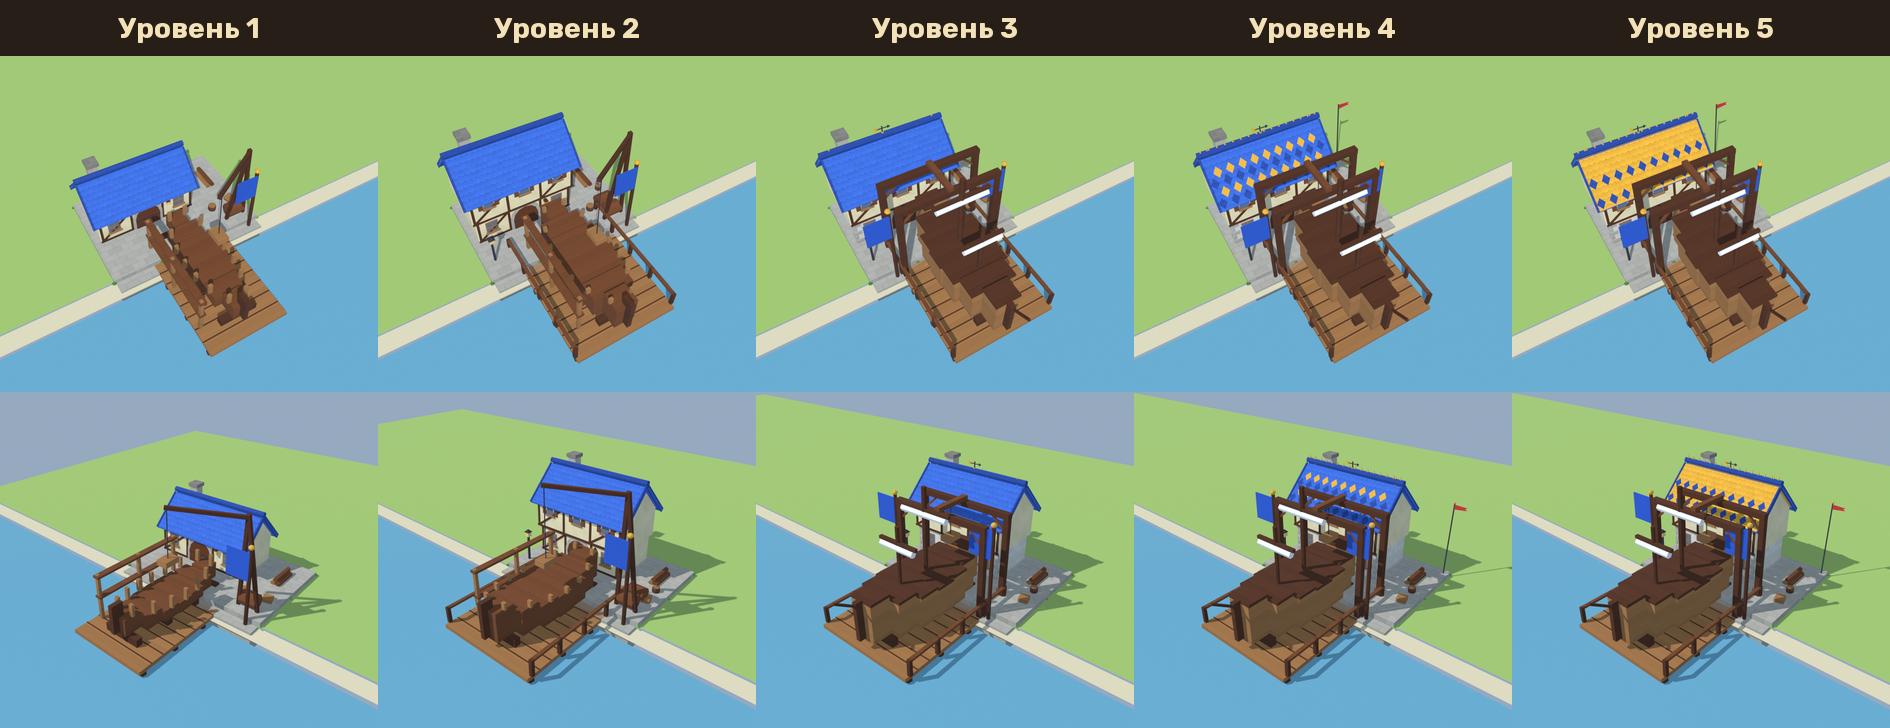
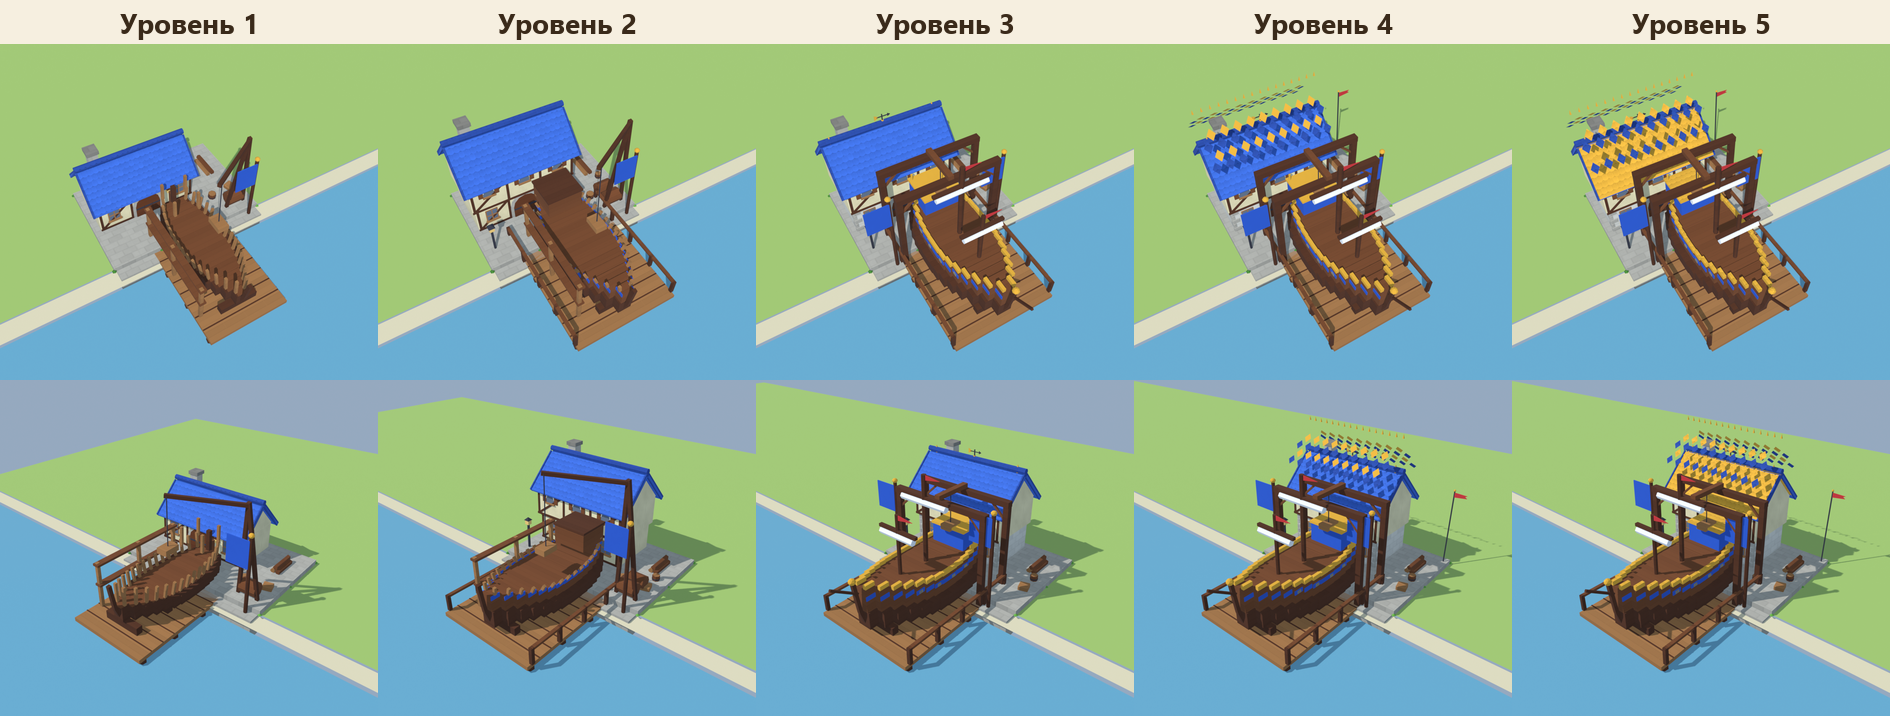
Shipyard: a richer ship on the slipway (staged per level: ribs, band, stern castle, gun ports, gilded rail, figurehead), renders sent for approval

diff --git a/Tools/blender/shipyard1.py b/Tools/blender/shipyard1.py
@@ -50,6 +50,81 @@ def hull(b, cx, cy, z0, length, beam, depth, colour='wood_mid', rail='wood_dark'
     b.box(cx - 0.04, cx + 0.04, cy - length * 0.5 - 0.12, cy - length * 0.5 + 0.1, z0 + 0.05, z0 + depth * 1.35, rail)
 
 
+def ship(b, cy, z0, length, beam, depth, stage, band='banner_blue'):
+    """The ship on the stocks, bow to the sea (-y), stern to the land, centred on x = 0 (the user,
+    2026-11-12: the plain stepped hull was «скучный»). Two-tone planking (dark below, mid above), a
+    painted band and a rail along the sheer, a keel and a curved stem, a rudder, a raised stern castle
+    with windows. `stage`: 1 = being built (bare ribs above the lower planking, the castle a frame),
+    2 = planked to the band, the castle built but bare, 3 = finished (gun ports on the band, gold rail
+    and trim, lit stern windows, a gilded figurehead)."""
+    n = 15
+    half = length / 2
+    planked = {1: 0.45, 2: 0.82, 3: 1.0}[stage]
+
+    def width(t):            # t in -0.5..0.5 along the hull; the bow (t<0) is finer than the stern
+        k = abs(t) * 2
+        return beam * (1.0 - k ** (2.0 if t < 0 else 3.0) * (0.92 if t < 0 else 0.55))
+
+    def sheer(t):
+        return z0 + depth + (abs(t) * 2) ** 2 * depth * (0.45 if t < 0 else 0.3)
+
+    for k in range(n):
+        t0, t1 = -0.5 + k / n, -0.5 + (k + 1) / n
+        mid = (t0 + t1) / 2
+        w = width(mid)
+        top = sheer(mid)
+        y0, y1 = cy + t0 * length, cy + t1 * length
+        low_top = z0 + (top - z0) * 0.42
+        b.box(-w * 0.62, w * 0.62, y0, y1, z0, low_top, 'wood_dark')                  # below the waterline: narrower, dark
+        up_top = z0 + (top - z0) * planked
+        if up_top > low_top:
+            b.box(-w / 2, w / 2, y0, y1, low_top, up_top, 'wood_mid')
+        if stage >= 2:
+            bz = z0 + (top - z0) * 0.72
+            for sd in (-1, 1):                                                          # the painted band, a strake on each side
+                b.box(min(sd * w / 2, sd * (w / 2 + 0.014)), max(sd * w / 2, sd * (w / 2 + 0.014)), y0, y1, bz, bz + 0.07, band)
+            if stage == 3 and -0.32 < mid < 0.3 and k % 2 == 0:
+                for s in (-1, 1):                                                       # gun ports on it
+                    b.box(s * (w / 2 + 0.014) - 0.012, s * (w / 2 + 0.014) + 0.012, (y0 + y1) / 2 - 0.035,
+                          (y0 + y1) / 2 + 0.035, bz + 0.012, bz + 0.058, 'stone_dark')
+        if stage == 3:
+            for sd in (-1, 1):                                                          # the gilded rail on each side
+                b.box(min(sd * (w / 2 - 0.04), sd * (w / 2 + 0.015)), max(sd * (w / 2 - 0.04), sd * (w / 2 + 0.015)),
+                      y0, y1, top, top + 0.07, 'gold')
+        if planked < 1.0:                                                               # bare ribs above the planking
+            for s in (-1, 1):
+                b.rod((s * w * 0.5, (y0 + y1) / 2, up_top), (s * w * 0.56, (y0 + y1) / 2, top), 0.045, 'wood_light')
+    # the keel, the curved stem rising at the bow, the sternpost and the rudder
+    b.box(-0.035, 0.035, cy - half + 0.05, cy + half - 0.05, z0 - 0.05, z0 + 0.02, 'wood_dark')
+    bow = cy - half
+    pts = [(bow + 0.05, z0 + 0.02), (bow - 0.05, z0 + depth * 0.6), (bow - 0.1, z0 + depth * 1.3), (bow - 0.12, z0 + depth * 1.6)]
+    for (ya, za), (yb, zb) in zip(pts, pts[1:]):
+        b.rod((0, ya, za), (0, yb, zb), 0.06, 'wood_dark')
+    stern = cy + half
+    b.box(-0.04, 0.04, stern - 0.06, stern + 0.02, z0, z0 + depth * 1.5, 'wood_dark')
+    b.box(-0.02, 0.02, stern, stern + 0.14, z0 + 0.02, z0 + depth * 0.9, 'wood_mid')     # the rudder
+    # the stern castle: a raised cabin over the last fifth of the hull
+    cw = width(0.42) * 0.96
+    c0, c1 = stern - length * 0.24, stern - 0.02
+    deck_z = sheer(0.45)
+    if stage == 1:
+        for x in (-cw / 2 + 0.03, cw / 2 - 0.03):
+            for y in (c0 + 0.03, c1 - 0.03):
+                b.box(x - 0.025, x + 0.025, y - 0.025, y + 0.025, deck_z - 0.05, deck_z + 0.3, 'wood_light')
+    else:
+        b.box(-cw / 2, cw / 2, c0, c1, deck_z - 0.08, deck_z + 0.26, 'wood_mid' if stage == 2 else band)
+        b.box(-cw / 2 - 0.02, cw / 2 + 0.02, c0 - 0.02, c1 + 0.02, deck_z + 0.26, deck_z + 0.3,
+              'gold' if stage == 3 else 'wood_dark')
+        f = Facade(b, '+y', c1)
+        for x in (-cw * 0.25, 0.0, cw * 0.25):
+            f.rect(x - 0.045, x + 0.045, deck_z + 0.04, deck_z + 0.17, 0.01, 'window_light' if stage == 3 else 'window')
+        if stage == 3:
+            f.rect(-cw / 2, cw / 2, deck_z - 0.02, deck_z + 0.01, 0.012, 'gold')
+            b.ball(0, bow - 0.13, z0 + depth * 1.62, 0.06, 0.1, 'gold')                  # the figurehead
+            for x in (-cw / 2 + 0.04, cw / 2 - 0.04):
+                b.cylinder(x, c1 - 0.04, deck_z + 0.3, deck_z + 0.42, 0.02, 'gold', sides=6)   # stern lanterns
+
+
 def piles(b, xs, ys, top, bottom=SEA_Z - 0.5, r=0.07):
     for x in xs:
         for y in ys:
@@ -167,7 +242,7 @@ def level1():
     _ground(b)
     _workshop(b)
     _slip(b)
-    hull(b, 0, -0.55, 0.14, 2.3, 0.8, 0.42, colour='wood_mid', ribs_above=0.22)      # the scout's size
+    ship(b, -0.55, 0.16, 2.3, 0.82, 0.44, stage=1)                                     # the scout's size, being built
     _scaffold(b)
     _crane(b)
     _yard(b)
@@ -180,7 +255,7 @@ def level2():
     _ground(b)
     _workshop(b, storeys=2)
     _slip(b, wide=True)
-    hull(b, 0, -0.6, 0.14, 2.5, 1.0, 0.52, colour='wood_mid', ribs_above=0.12)       # the transport, planked higher
+    ship(b, -0.6, 0.16, 2.5, 1.0, 0.5, stage=2)                                        # the transport, planked to the band
     _scaffold(b, h=0.95)
     _crane(b, h=2.25, second_winch=True)
     _yard(b)
@@ -198,13 +273,15 @@ def _level3_core():
         d.finial(b, x, WYC, zr + 0.03)
     d.weathervane(b, (WX0 + WX1) / 2, WYC, zr + 0.03)
     _slip(b, wide=True)
-    hull(b, 0, -0.6, 0.14, 2.6, 1.05, 0.55, colour='wood_light')                    # the warship, planked
+    ship(b, -0.6, 0.16, 2.6, 1.05, 0.52, stage=3)                                      # the warship, finished
     b.cylinder(0, -0.5, 0.6, 2.2, 0.045, 'wood_dark', sides=6)                       # its mast
     b.cylinder(0, -1.1, 0.6, 1.75, 0.035, 'wood_dark', sides=6)                      # the foremast
     for my, half, z in ((-0.5, 0.5, 1.8), (-1.1, 0.38, 1.45)):
         b.box(-half, half, my - 0.03, my + 0.03, z, z + 0.05, 'wood_dark')              # the yards
         b.hcylinder('x', (0, my - 0.02, z - 0.05), half - 0.04, 0.055, 'white', sides=6)   # sails furled on them
-    b.rod((0, -1.9, 0.75), (0, -2.35, 1.05), 0.035, 'wood_dark')                     # the bowsprit
+    b.rod((0, -1.95, 0.8), (0, -2.4, 1.1), 0.035, 'wood_dark')                       # the bowsprit
+    for my, top in ((-0.5, 2.2), (-1.1, 1.75)):                                        # pennants at the mastheads
+        b.prism([(0, 0), (0.32, -0.04), (0, -0.09)], (0.0, my, top), (1, 0, 0), (0, 0, 1), 0.012, 'banner_red', back_cap=True)
     _gantry(b)
     _yard(b)
     d.barrel(b, 1.3, 0.95, r=0.07)

diff --git a/Design/features/archipelago-and-ships.md b/Design/features/archipelago-and-ships.md
@@ -83,6 +83,13 @@ choice; then levels 1-5 and icons (it has no level 2-5 icons yet).
   pennant; L5 gilded), 1.4-2.8k tris; review renders `render_shipyard_levels.py` -> `Design/shipyard_levels.png`,
   SENT for approval. NOT in the game: after the yes, ships.py builds Shipyard1-lvl1..5 from it, export,
   BuildingData level models, icons (render_icons.py).
+- **The ship redone (the user, 2026-11-12: building liked, ship «скучный»).** `ship()` in shipyard1.py
+  replaces the stepped `hull()` on the slip: 15 stations, fine bow / full stern, dark planking below + mid
+  above, a curved stem, keel, sternpost + rudder, a raised stern castle. Stage 1 (L1) bare ribs over the
+  lower planking + a framed castle; 2 (L2) planked, blue band strakes, castle built; 3 (L3-5) gun ports on
+  the band, gilded side rails, lit stern windows + lanterns, gold figurehead, pennants at the mastheads.
+  TRAP: band/rail must be SIDE strips -- a full-width box floods the whole deck with the colour. 2-3.8k tris.
+  Re-rendered `Design/shipyard_levels.png`, SENT for approval.
 
 ## Placing the Shipyard (fixed 2026-10-29)
 - 2026-11-05 (the user, whole game): the Shipyard floated over a low beach (every building stands at the
